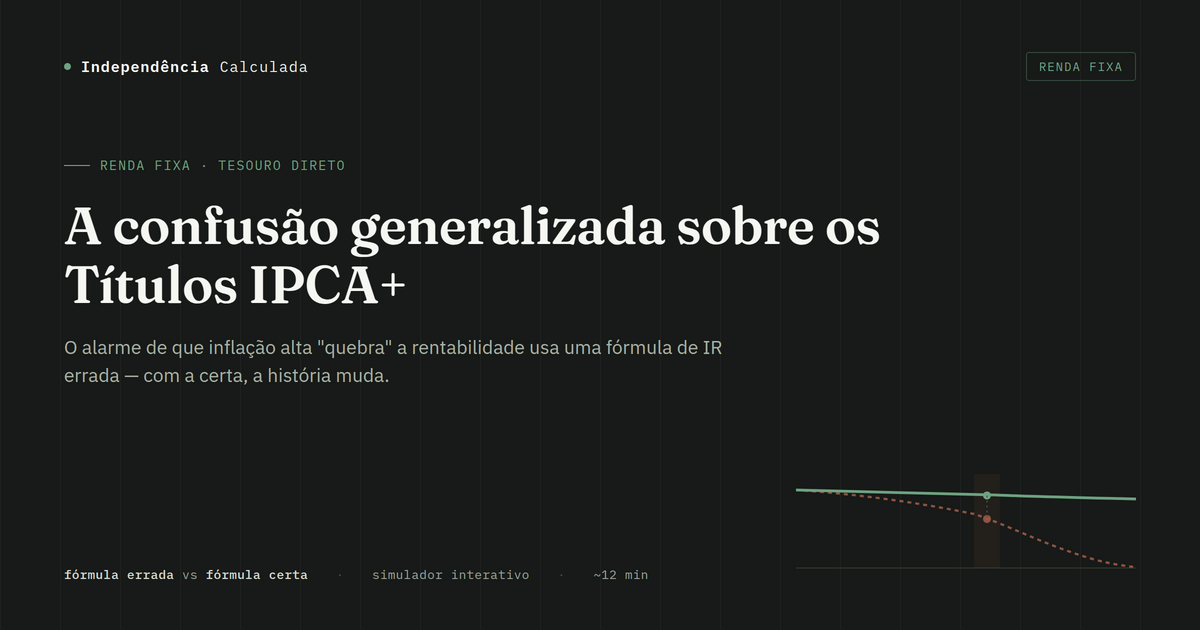
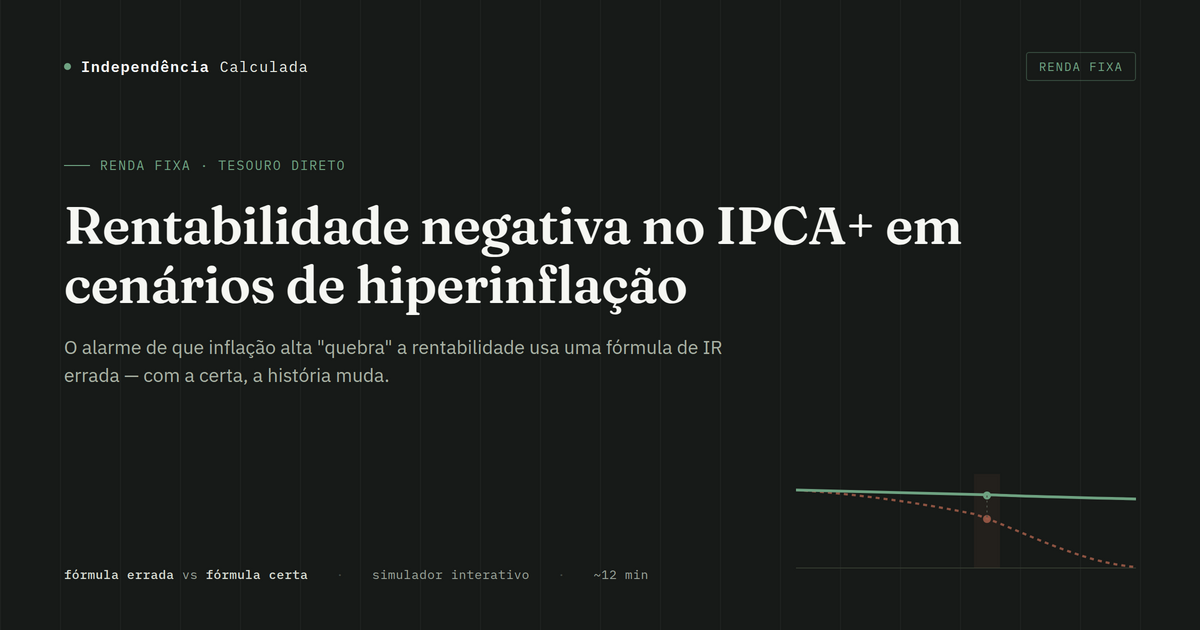
Imagens e MDs

Changed region(s): [[0.0308, 0.3317, 0.8017, 0.5127]]

diff --git a/internal/prompt-og-image-independencia-calculada.md b/internal/prompt-og-image-independencia-calculada.md
@@ -19,6 +19,20 @@ Do `index.html` fornecido, extraia:
 - O tempo de leitura (`~XX min`) e outros metadados relevantes do `.meta` (nível, "inclui calculadora/simulador interativo", etc.)
 - O nome de arquivo esperado, a partir de `og:image` (ex: `og-cover-nome-do-artigo.png`) — a imagem final **precisa ter exatamente esse nome**.
 
+**Regra crítica sobre o texto do H1 da imagem: NUNCA copie o `<title>`/`og:title` literalmente.**
+
+Quando um link é compartilhado, a maioria das plataformas (WhatsApp, LinkedIn, X, etc.) mostra a imagem de capa **e**, logo abaixo dela, o `<title>` da página como texto. Se o H1 dentro da imagem for idêntico ao `<title>`, o preview do link fica com a mesma frase repetida duas vezes (uma vez dentro do PNG, outra vez como texto do card) — visualmente redundante e de aparência amadora.
+
+Por isso, o H1 dentro da imagem deve ser **uma reformulação temática do artigo, não a pergunta/título literal da página**. Pense nele como um "rótulo do assunto" — o que o artigo é, tecnicamente — em vez do gancho editorial usado no `<title>`. Exemplos já aplicados nesta série:
+
+| `<title>` / `og:title` da página (mantido como está no HTML) | H1 dentro da imagem (reformulado) |
+|---|---|
+| "Quanto posso retirar dos meus investimentos durante a aposentadoria?" | "Taxa Segura de Retirada e Taxa Perpétua de Retirada" |
+| "A confusão generalizada sobre os Títulos IPCA+" | "Rentabilidade negativa no IPCA+ em cenários de hiperinflação" |
+| "Qual é a PWR da minha carteira? Um estudo com 20 anos de dados reais" | "A Taxa Perpétua de Retirada (PWR) de uma carteira de aposentadoria" |
+
+Ao reformular, prefira nomear os **conceitos/termos técnicos centrais** do artigo (SWR, PWR, IPCA+, hiperinflação, taxa de retirada) em vez de reescrever a pergunta do título com outras palavras — isso evita duplicidade de sentido além de duplicidade literal. O `<title>`, `og:title`, `.eyebrow` e `.subtitle` do HTML do artigo **nunca são alterados** — essa reformulação vale só para o texto renderizado dentro do PNG.
+
 ### 2. Extraia os design tokens do próprio HTML
 
 Não invente cores ou fontes — leia do `:root{}` do CSS do artigo:
@@ -115,7 +129,8 @@ Confirme as dimensões finais com `identify` (precisa ser exatamente **1200x630*
 - [ ] Dimensões exatas: 1200×630
 - [ ] Nenhum ícone/emoji/foto de banco de imagem — só tipografia + o motivo gráfico SVG
 - [ ] O motivo gráfico é específico ao argumento do artigo, não reciclado de outro artigo sem adaptação
-- [ ] Título, eyebrow, categoria e subtítulo batem com o conteúdo real do HTML anexado (não inventados)
+- [ ] Eyebrow, categoria e subtítulo batem com o conteúdo real do HTML anexado (não inventados)
+- [ ] O H1 dentro da imagem **não é uma cópia literal do `<title>`/`og:title`** — é uma reformulação temática/técnica do assunto (ver regra na seção 1)
 - [ ] Fontes corretas (Fraunces no título, IBM Plex Mono nos labels/wordmark, IBM Plex Sans no subtítulo) — sem fallback visível para Arial/DejaVu
 - [ ] Salvar em `/mnt/user-data/outputs/` e usar `present_files` para entregar
 

diff --git a/internal/BACKLOG.md b/internal/BACKLOG.md
@@ -41,18 +41,13 @@ Pages e precisam ser atualizados assim que o domínio próprio estiver ativo:
 - [ ] **Sitemap.xml no Search Console ainda com "não foi possível buscar"**
       — Google confirmou "dados em processamento, volte em ~1 dia". Conferir
       de novo amanhã; se persistir depois disso, investigar.
-- [ ] **Imagem de compartilhamento (og:image) — design ainda não aprovado**
-      — 2 versões geradas e rejeitadas pelo usuário (v1: fundo verde escuro
-      com gráfico decorativo; v2: fundo claro estilo página do blog, sem
-      gráfico, favicon no canto). Ambas descartadas. Precisa de uma nova
-      direção de design antes de gerar de novo. As tags `og:image` já
-      apontam pro caminho certo (`assets/og-cover-*.png`, endereço atual do
-      GitHub Pages) — só falta a imagem em si.
-- [ ] **Imagens de compartilhamento (og:image) não existem** — os 3 artigos
-      apontam pra `assets/og-cover-*.png`, mas esse arquivo não existe no
-      repositório. Hoje, ao compartilhar um link no WhatsApp/LinkedIn/X, não
-      aparece nenhuma imagem de prévia. Precisa criar as 3 imagens (1200×630)
-      e subir na pasta `assets/`.
+
+- [ ] **Confirmar prévia de compartilhamento funcionando** — usuário já
+      gerou as imagens em outra IA e subiu em `assets/`; falta só testar no
+      WhatsApp Web / LinkedIn Post Inspector se a prévia carrega certinho
+      (nomes de arquivo precisam bater exatamente com o que o HTML espera:
+      `og-cover-pwr-carteira-fire.png`, `og-cover-ipca-hiperinflacao.png`,
+      `og-cover-quanto-posso-retirar.png`).
 
 ## Analytics
 
@@ -87,6 +82,11 @@ Pages e precisam ser atualizados assim que o domínio próprio estiver ativo:
 ---
 
 ## Concluído
+
+- [x] **Imagens de compartilhamento (og:image) — design aprovado e
+      publicado** — depois de 2 tentativas minhas rejeitadas, o usuário
+      gerou as 3 imagens em outra IA e já subiu em `assets/`. Falta só o
+      teste final de prévia (ver item em aberto). *(11 ago. 2026)*
 
 - [x] **Bug encontrado e corrigido: botões de compartilhar apontavam pro
       domínio final** — WhatsApp/LinkedIn/X estavam compartilhando
